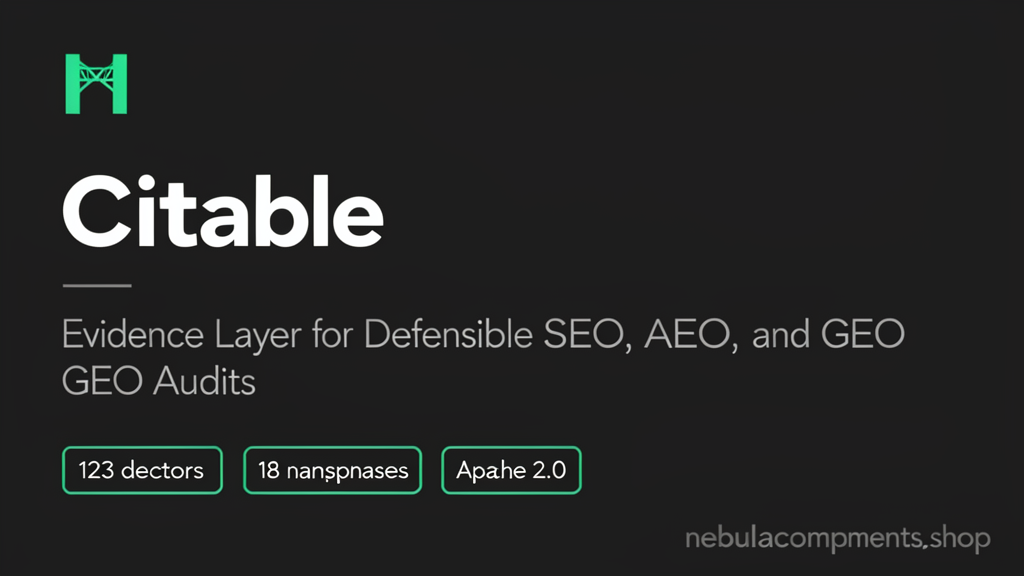
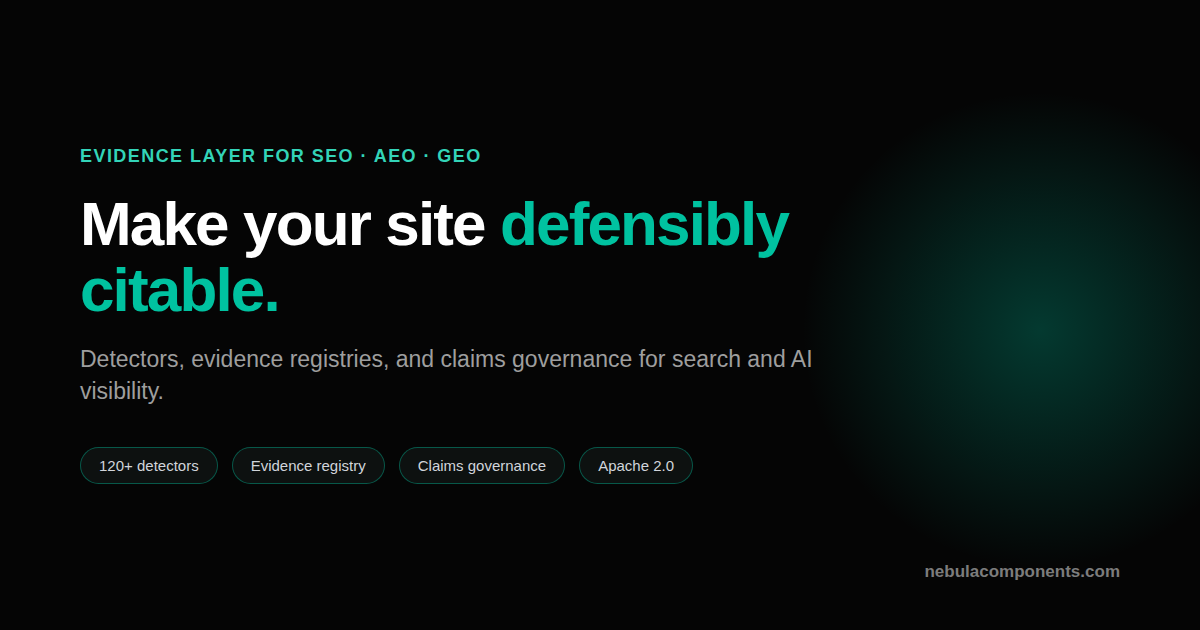
feat: regenerate OG images with teal branding + restore Citable footer link
- opengraph-image: swap old emerald (#10b981/#34d399) for surgical teal
  (#00c2a0/#33d4b8), update footer copy to '9-signal audit → One-Leak
  Repair Sprint', keep 1200x630 layout
- og-citable.png: regenerate static Citable OG card with teal accent,
  clean text (120+ detectors, evidence registry, claims governance,
  Apache 2.0), correct nebulacomponents.com domain (was garbled AI text
  + .shop)
- add og-citable-source.html for reproducible card rendering
- og-card-source page/html: align with new teal brand + .com domain
- Footer: re-add Citable link (/resources/citable) to Product column

diff --git a/customer-portal/app/og-card-source/page.tsx b/customer-portal/app/og-card-source/page.tsx
@@ -1,33 +1,34 @@
 export default function OGCardSource() {
   return (
-    <div className="min-h-[630px] w-[1200px] overflow-hidden bg-gray-900 flex flex-col justify-center items-start p-[72px_80px]">
-      <div className="text-emerald-300 text-lg font-semibold tracking-wider uppercase mb-5">
+    <div className="min-h-[630px] w-[1200px] overflow-hidden bg-bg flex flex-col justify-center items-start p-[72px_80px] relative">
+      <div className="absolute top-[90px] right-[-80px] w-[480px] h-[480px] rounded-full bg-accent/25 blur-[100px]" />
+      <div className="text-accent-light text-lg font-semibold tracking-wider uppercase mb-6">
         Evidence-backed conversion diagnosis
       </div>
-      <h1 className="text-white text-[56px] leading-[1.08] tracking-tight max-w-[800px] mb-7">
-        Your landing page is <em className="text-emerald-300 not-italic">leaking buyers.</em>
+      <h1 className="text-white text-[62px] leading-[1.06] tracking-[-0.03em] max-w-[860px] mb-5 font-extrabold">
+        Your landing page is <em className="text-accent not-italic">leaking buyers.</em>
       </h1>
-      <p className="text-gray-400 text-[22px] max-w-[700px] leading-[1.4] mb-10">
+      <p className="text-fg-muted text-[23px] max-w-[760px] leading-[1.4] mb-10">
         Automated URL submission and scoring are live — every finding is backed by verifiable evidence.
       </p>
-      <div className="flex gap-4">
-        <div className="bg-gray-800 border border-gray-700 text-gray-300 text-[15px] px-[18px] py-2 rounded-full">
+      <div className="flex gap-3.5">
+        <div className="bg-bg-surface border border-accent/40 text-gray-300 text-[15px] px-[18px] py-[9px] rounded-full">
           🎯 Clarity
         </div>
-        <div className="bg-gray-800 border border-gray-700 text-gray-300 text-[15px] px-[18px] py-2 rounded-full">
+        <div className="bg-bg-surface border border-accent/40 text-gray-300 text-[15px] px-[18px] py-[9px] rounded-full">
           🖱 CTA friction
         </div>
-        <div className="bg-gray-800 border border-gray-700 text-gray-300 text-[15px] px-[18px] py-2 rounded-full">
+        <div className="bg-bg-surface border border-accent/40 text-gray-300 text-[15px] px-[18px] py-[9px] rounded-full">
           🤝 Trust gap
         </div>
-        <div className="bg-gray-800 border border-gray-700 text-gray-300 text-[15px] px-[18px] py-2 rounded-full">
+        <div className="bg-bg-surface border border-accent/40 text-gray-300 text-[15px] px-[18px] py-[9px] rounded-full">
           📦 Offer specificity
         </div>
-        <div className="bg-gray-800 border border-gray-700 text-gray-300 text-[15px] px-[18px] py-2 rounded-full">
+        <div className="bg-bg-surface border border-accent/40 text-gray-300 text-[15px] px-[18px] py-[9px] rounded-full">
           🔧 Difficulty
         </div>
       </div>
-      <div className="absolute bottom-12 right-[72px] text-gray-400 text-base">
+      <div className="absolute bottom-12 right-[80px] text-fg-dim text-base font-semibold">
         nebulacomponents.com
       </div>
     </div>

diff --git a/customer-portal/public/og-card-source.html b/customer-portal/public/og-card-source.html
@@ -8,24 +8,31 @@
 * { margin:0; padding:0; box-sizing:border-box; }
 body {
   width: 1200px; height: 630px; overflow: hidden;
-  background: #111827;
+  background: #050505;
   font-family: -apple-system, BlinkMacSystemFont, 'Segoe UI', Arial, sans-serif;
   display: flex; flex-direction: column; justify-content: center; align-items: flex-start;
   padding: 72px 80px;
- background: var(--bg); color: var(--fg);}
-.eyebrow { color: #6ee7b7; font-size: 18px; font-weight: 600; letter-spacing: 0.08em; text-transform: uppercase; margin-bottom: 20px; }
-h1 { color: #fff; font-size: 56px; line-height: 1.08; letter-spacing: -0.02em; max-width: 800px; margin-bottom: 28px; }
-h1 em { color: #6ee7b7; font-style: normal; }
-.sub { color: #9ca3af; font-size: 22px; max-width: 700px; line-height: 1.4; margin-bottom: 40px; }
-.pills { display: flex; gap: 16px; }
-.pill { background: #1f2937; border: 1px solid #374151; color: #d1d5db; font-size: 15px; padding: 8px 18px; border-radius: 20px; }
-.logo { position: absolute; bottom: 48px; right: 72px; color: #9ca3af; font-size: 16px; }
+  position: relative;
+}
+.glow {
+  position: absolute; top: 90px; right: -80px;
+  width: 480px; height: 480px; border-radius: 50%;
+  background: radial-gradient(circle, rgba(0,194,160,0.28), transparent 70%);
+}
+.eyebrow { color: #33d4b8; font-size: 18px; font-weight: 600; letter-spacing: 0.08em; text-transform: uppercase; margin-bottom: 24px; }
+h1 { color: #fff; font-size: 62px; line-height: 1.06; letter-spacing: -0.03em; max-width: 860px; margin-bottom: 20px; font-weight: 820; }
+h1 em { color: #00c2a0; font-style: normal; }
+.sub { color: #9e9e9e; font-size: 23px; max-width: 760px; line-height: 1.4; margin-bottom: 40px; }
+.pills { display: flex; gap: 14px; }
+.pill { background: #0d1110; border: 1px solid rgba(0,194,160,0.4); color: #d1d5db; font-size: 15px; padding: 9px 18px; border-radius: 999px; }
+.logo { position: absolute; bottom: 48px; right: 80px; color: #7c7c7c; font-size: 17px; font-weight: 600; }
 </style>
 </head>
 <body>
-  <div class="eyebrow">Free · 60 seconds · No call</div>
+  <div class="glow"></div>
+  <div class="eyebrow">Evidence-backed conversion diagnosis</div>
   <h1>Your landing page is <em>leaking buyers.</em></h1>
-  <p class="sub">Paste your URL. Get a scored audit across 5 conversion dimensions. Free fix kit or $97 implementation.</p>
+  <p class="sub">Paste your URL. Get a scored audit across 9 conversion signals. Free evidence-backed report or $97 One-Leak Repair Sprint.</p>
   <div class="pills">
     <div class="pill">🎯 Clarity</div>
     <div class="pill">🖱 CTA friction</div>
@@ -33,6 +40,6 @@ h1 em { color: #6ee7b7; font-style: normal; }
     <div class="pill">📦 Offer specificity</div>
     <div class="pill">🔧 Difficulty</div>
   </div>
-  <div class="logo">nebulacomponents.shop</div>
+  <div class="logo">nebulacomponents.com</div>
 </body>
 </html>

diff --git a/customer-portal/app/opengraph-image.tsx b/customer-portal/app/opengraph-image.tsx
@@ -20,7 +20,7 @@ export default function OpenGraphImage() {
           padding: '64px 72px',
           color: '#ffffff',
           background:
-            'radial-gradient(circle at 86% 18%, rgba(16,185,129,0.25), transparent 31%), #050505',
+            'radial-gradient(circle at 86% 18%, rgba(0,194,160,0.28), transparent 34%), #050505',
         }}
       >
         <div style={{ display: 'flex', alignItems: 'center', justifyContent: 'space-between' }}>
@@ -33,7 +33,7 @@ export default function OpenGraphImage() {
                 alignItems: 'center',
                 justifyContent: 'center',
                 borderRadius: 9,
-                background: '#10b981',
+                background: '#00c2a0',
                 color: '#050505',
                 fontSize: 24,
                 fontWeight: 900,
@@ -48,10 +48,10 @@ export default function OpenGraphImage() {
           <div
             style={{
               display: 'flex',
-              border: '1px solid rgba(16,185,129,0.55)',
+              border: '1px solid rgba(0,194,160,0.55)',
               borderRadius: 999,
               padding: '10px 18px',
-              color: '#34d399',
+              color: '#33d4b8',
               fontSize: 16,
               fontWeight: 650,
               letterSpacing: '0.08em',
@@ -63,7 +63,7 @@ export default function OpenGraphImage() {
         </div>
 
         <div style={{ display: 'flex', flexDirection: 'column', maxWidth: 960 }}>
-          <div style={{ display: 'flex', color: '#34d399', fontSize: 22, fontWeight: 650, marginBottom: 20 }}>
+          <div style={{ display: 'flex', color: '#33d4b8', fontSize: 22, fontWeight: 650, marginBottom: 20 }}>
             For founders burning cash on ads
           </div>
           <div
@@ -78,7 +78,7 @@ export default function OpenGraphImage() {
           >
             <div style={{ display: 'flex' }}>Your ads are fine.</div>
             <div style={{ display: 'flex' }}>
-              Your landing page has&nbsp;<span style={{ color: '#34d399' }}>a leak.</span>
+              Your landing page has&nbsp;<span style={{ color: '#00c2a0' }}>a leak.</span>
             </div>
           </div>
           <div style={{ display: 'flex', marginTop: 24, color: '#9e9e9e', fontSize: 25 }}>
@@ -97,8 +97,8 @@ export default function OpenGraphImage() {
             fontSize: 18,
           }}
         >
-          <div style={{ display: 'flex' }}>Leak diagnosis → prioritized fix path</div>
-          <div style={{ display: 'flex', color: '#34d399', fontWeight: 650 }}>nebulacomponents.com</div>
+          <div style={{ display: 'flex' }}>9-signal audit → One-Leak Repair Sprint</div>
+          <div style={{ display: 'flex', color: '#00c2a0', fontWeight: 650 }}>nebulacomponents.com</div>
         </div>
       </div>
     ),

diff --git a/customer-portal/public/og-citable-source.html b/customer-portal/public/og-citable-source.html
@@ -1,0 +1,57 @@
+<!DOCTYPE html>
+<html>
+<head>
+<meta charset="UTF-8">
+<style>
+* { margin:0; padding:0; box-sizing:border-box; }
+body {
+  width: 1200px; height: 630px; overflow: hidden;
+  background: #050505;
+  font-family: -apple-system, BlinkMacSystemFont, 'Segoe UI', Arial, sans-serif;
+  display: flex; flex-direction: column; justify-content: center; align-items: flex-start;
+  padding: 72px 80px;
+  position: relative;
+}
+.glow {
+  position: absolute; top: 90px; right: -80px;
+  width: 480px; height: 480px; border-radius: 50%;
+  background: radial-gradient(circle, rgba(0,194,160,0.28), transparent 70%);
+}
+.eyebrow {
+  color: #33d4b8; font-size: 18px; font-weight: 600;
+  letter-spacing: 0.08em; text-transform: uppercase; margin-bottom: 24px;
+}
+h1 {
+  color: #fff; font-size: 62px; line-height: 1.06; letter-spacing: -0.03em;
+  max-width: 860px; margin-bottom: 20px; font-weight: 820;
+}
+h1 em { color: #00c2a0; font-style: normal; }
+.sub {
+  color: #9e9e9e; font-size: 23px; max-width: 760px;
+  line-height: 1.4; margin-bottom: 40px;
+}
+.pills { display: flex; gap: 14px; }
+.pill {
+  background: #0d1110; border: 1px solid rgba(0,194,160,0.4);
+  color: #d1d5db; font-size: 15px; padding: 9px 18px; border-radius: 999px;
+}
+.logo {
+  position: absolute; bottom: 48px; right: 80px;
+  color: #7c7c7c; font-size: 17px; font-weight: 600;
+}
+</style>
+</head>
+<body>
+  <div class="glow"></div>
+  <div class="eyebrow">Evidence layer for SEO · AEO · GEO</div>
+  <h1>Make your site <em>defensibly citable.</em></h1>
+  <p class="sub">Detectors, evidence registries, and claims governance for search and AI visibility.</p>
+  <div class="pills">
+    <div class="pill">120+ detectors</div>
+    <div class="pill">Evidence registry</div>
+    <div class="pill">Claims governance</div>
+    <div class="pill">Apache 2.0</div>
+  </div>
+  <div class="logo">nebulacomponents.com</div>
+</body>
+</html>

diff --git a/customer-portal/components/Footer.tsx b/customer-portal/components/Footer.tsx
@@ -27,6 +27,7 @@ export default function Footer() {
               <li><a href="/pricing" className="text-sm text-fg-muted hover:text-fg transition-colors">Pricing</a></li>
               <li><a href="/teardowns" className="text-sm text-fg-muted hover:text-fg transition-colors">Teardowns</a></li>
               <li><a href="/case-studies" className="text-sm text-fg-muted hover:text-fg transition-colors">Case Studies</a></li>
+              <li><a href="/resources/citable" className="text-sm text-fg-muted hover:text-fg transition-colors">Citable</a></li>
             </ul>
           </div>
 
